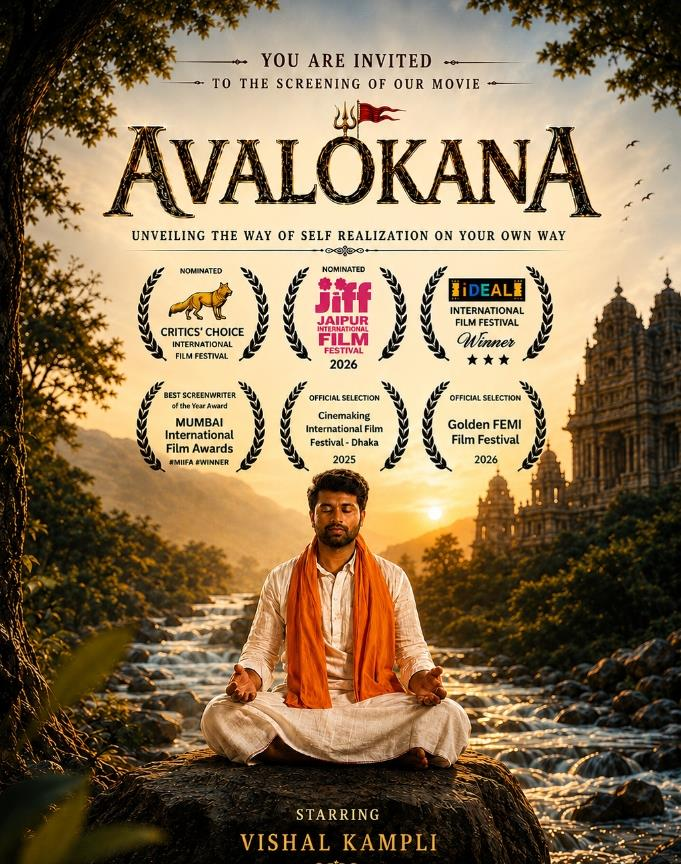
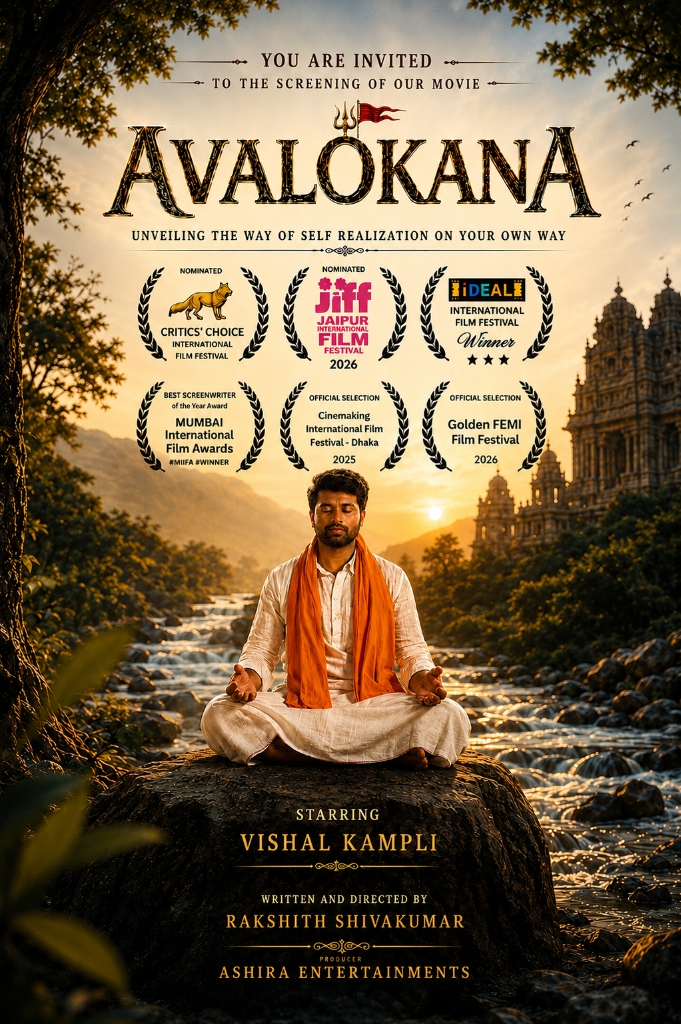
feat: restore dark gradient overlay, HTML text, and update poster

diff --git a/index.html b/index.html
@@ -61,14 +61,12 @@
 
   <!-- Hero Section -->
   <section class="hero" id="hero">
-    <div class="hero-content" style="display: flex; flex-direction: column; justify-content: flex-end; align-items: center; padding-bottom: 50px; min-height: 80vh;">
-      <!-- HTML text hidden because it is now part of the background image poster -->
-      <!-- <p class="hero-tagline reveal">An Experiential Journey of Awareness</p>
+    <div class="hero-content">
+      <p class="hero-tagline reveal">An Experiential Journey of Awareness</p>
       <h1 class="hero-title reveal">Avalokana</h1>
       <p class="hero-description reveal">
         A curious spiritual journey tracing a seeker named Madana, sent on a barefoot pilgrimage by his Swamiji to seek divine permission. Explore his internal struggle with purity, moral pitfalls, and self-realization.
-      </p> -->
-      
+      </p>
       <div class="hero-actions reveal">
         <a href="#booking" class="btn btn-primary">Book Seats</a>
         <a href="#trailer" class="btn btn-secondary">Watch Trailer</a>

diff --git a/src/styles/style.css b/src/styles/style.css
@@ -316,7 +316,7 @@ p {
   width: 100%;
   display: flex;
   align-items: center;
-  background-image: url('/images/hero-bg.jpg');
+  background-image: linear-gradient(to right, rgba(7, 13, 10, 0.9) 20%, rgba(7, 13, 10, 0.5) 50%, rgba(7, 13, 10, 0.85) 90%), url('/images/hero-bg.jpg');
   background-size: cover;
   background-position: center;
   background-attachment: fixed;
